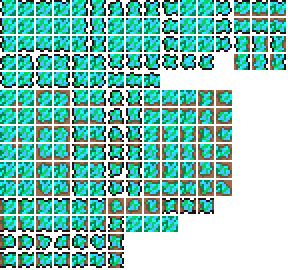
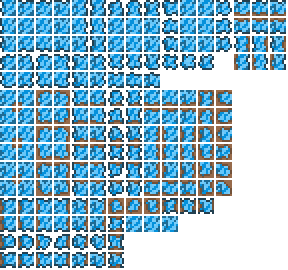
Add, edit and remove stuff - Add Hailstorm Bar - Edit Hailstorm textures - Remove Dev items

diff --git a/Content/Items/Placeables/HailstoneBar.cs b/Content/Items/Placeables/HailstoneBar.cs
@@ -1,0 +1,44 @@
+using Terraria;
+using Terraria.ModLoader;
+using Terraria.ID;
+using Terraria.GameContent.Creative;
+
+namespace Endtime.Content.Items.Placeables
+{
+    internal class HailstoneBar : ModItem
+    {
+        public override void SetStaticDefaults()
+        {
+            CreativeItemSacrificesCatalog.Instance.SacrificeCountNeededByItemId[Type] = 25;
+            ItemID.Sets.SortingPriorityMaterials[Type] = 59;
+        }
+
+        public override void SetDefaults()
+        {
+            Item.width = 20;
+            Item.height = 20;
+            Item.maxStack = 999;
+            Item.consumable = true;
+            Item.value = Item.buyPrice(silver: 30);
+
+            Item.useStyle = ItemUseStyleID.Swing;
+            Item.useTurn = true;
+            Item.useAnimation = 15;
+            Item.useTime = 15;
+            Item.autoReuse = true;
+
+            Item.rare = ItemRarityID.Cyan;
+
+            Item.createTile = ModContent.TileType<Tiles.HailstoneBars>();
+            Item.placeStyle = 0;
+        }
+        
+        public override void AddRecipes()
+        {
+        CreateRecipe()
+            .AddIngredient(ModContent.ItemType<HailstoneOre>(), 3)
+            .AddTile(TileID.Furnaces)
+            .Register();
+        }
+    }
+}

diff --git a/Content/Tiles/HailstoneBars.cs b/Content/Tiles/HailstoneBars.cs
@@ -1,0 +1,40 @@
+using Terraria;
+using Terraria.ModLoader;
+using Microsoft.Xna.Framework;
+using Terraria.DataStructures;
+using Terraria.ObjectData;
+using Terraria.Localization;
+
+namespace Endtime.Content.Tiles
+{
+    internal class HailstoneBars : ModTile
+    {
+        public override void SetStaticDefaults()
+        {
+            Main.tileSolid[Type] = true;
+            Main.tileSolidTop[Type] = true;
+            Main.tileShine[Type] = 1100;
+            Main.tileFrameImportant[Type] = true;
+
+            TileObjectData.newTile.CopyFrom(TileObjectData.Style1x1);
+            TileObjectData.newTile.StyleHorizontal = true;
+            TileObjectData.newTile.LavaDeath = false;
+            TileObjectData.addTile(Type);
+
+            AddMapEntry(new Color(0, 255, 255), Language.GetText("MapObject.MetalBar"));
+        }
+
+        public override bool Drop(int x, int y)
+        {
+            Tile t = Main.tile[x, y];
+            int style = t.TileFrameX / 18;
+
+            switch(style)
+            {
+                case 0: Item.NewItem(new EntitySource_TileBreak(x, y), x * 16, y * 16, 16, 16, ModContent.ItemType<Items.Placeables.HailstoneBar>()); break;
+            }
+
+            return base.Drop(x, y);
+        }
+    }
+}
